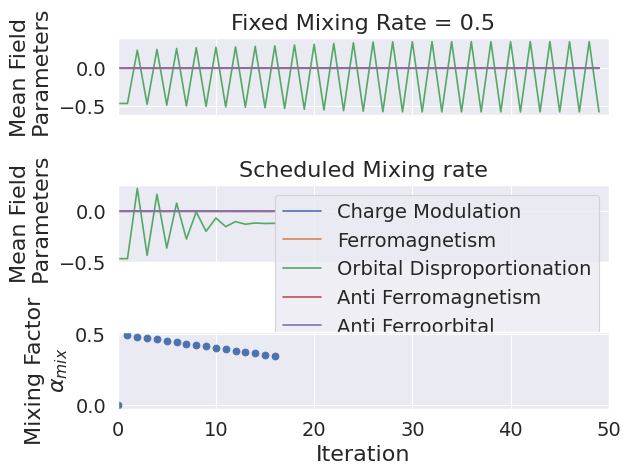
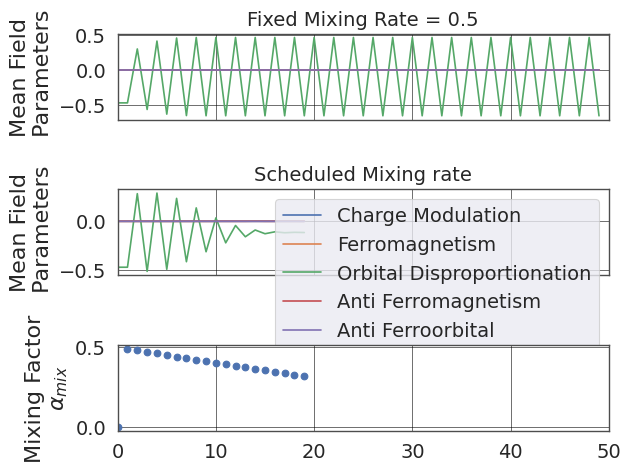
fixed 1d cut, update plots

diff --git a/display/single_point/iteration_seq.py b/display/single_point/iteration_seq.py
@@ -37,31 +37,47 @@ def Iteration_comparison(Solver_fixed, Solver_scheduled):
 
     fig, axs = plt.subplots(3, sharex=True)
     steps = Solver_fixed.sol_seq.shape[0]
-    for i in range(Solver_fixed.sol_seq.shape[1]):
-        axs[0].plot(np.arange(steps), Solver_fixed.sol_seq[:, i], label=Solver_fixed.Hamiltonian.Dict[i])
-    axs[0].set_title('Fixed Mixing Rate = {}'.format(Solver_fixed.beta), fontsize=title_font)
-    axs[0].set_xlim(0, 50)
-    axs[0].tick_params(axis='both', which='major', labelsize=tick_size)
-    axs[0].set_ylabel('Mean Field\n Parameters', fontsize=label_font)
 
+    ax = axs[0]
+    for i in range(Solver_fixed.sol_seq.shape[1]):
+        ax.plot(np.arange(steps), Solver_fixed.sol_seq[:, i], label=Solver_fixed.Hamiltonian.Dict[i])
+    ax.set_title('Fixed Mixing Rate = {}'.format(Solver_fixed.beta), fontsize=title_font)
+    ax.set_xlim(0, 50)
+    ax.set_ylabel('Mean Field\n Parameters', fontsize=label_font)
+    ax.set_facecolor("white")
+    ax.grid(b=True, color='black', linewidth=0.4)
+    ax.tick_params(axis='both', which='both', labelsize=tick_size)
+    for spine in ax.spines.values():
+        spine.set_color('0.3')
+
+    ax = axs[1]
     steps = Solver_scheduled.sol_seq.shape[0]
     for i in range(Solver_fixed.sol_seq.shape[1]):
-        axs[1].plot(np.arange(steps), Solver_scheduled.sol_seq[:, i], label=Solver_scheduled.Hamiltonian.Dict[i])
-    axs[1].set_title('Scheduled Mixing rate', fontsize=title_font)
-    axs[1].set_xlim(0, 50)
-    axs[1].set_ylabel('Mean Field\n Parameters', fontsize=label_font)
-    axs[1].legend(fontsize=leg_font)
-    axs[1].tick_params(axis='both', which='major', labelsize=tick_size)
+        ax.plot(np.arange(steps), Solver_scheduled.sol_seq[:, i], label=Solver_scheduled.Hamiltonian.Dict[i])
+    ax.set_title('Scheduled Mixing rate', fontsize=title_font)
+    ax.set_xlim(0, 50)
+    ax.set_ylabel('Mean Field\n Parameters', fontsize=label_font)
+    ax.legend(fontsize=leg_font)
+    ax.set_facecolor("white")
+    ax.tick_params(axis='both', which='both', labelsize=tick_size)
+    ax.grid(b=True, color='black', linewidth=0.4)
+    for spine in ax.spines.values():
+        spine.set_color('0.3')
 
+    ax = axs[2]
     steps = len(Solver_scheduled.beta_seq)
-    axs[2].scatter(np.arange(steps), Solver_scheduled.beta_seq)
-    axs[2].set_xlim(0, 50)
-    axs[2].set_ylabel('Mixing Factor\n' + r'$\alpha_{mix}$', fontsize=label_font)
-    # axs[2].set_title('Mixing Factor', fontsize=title_font)
+    ax.scatter(np.arange(steps), Solver_scheduled.beta_seq)
+    ax.set_xlim(0, 50)
+    ax.set_ylabel('Mixing Factor\n' + r'$\alpha_{mix}$', fontsize=label_font)
+    ax.set_facecolor("white")
+    ax.tick_params(axis='both', which='both', labelsize=tick_size)
+    ax.grid(b=True, color='black', linewidth=0.4)
+    for spine in ax.spines.values():
+        spine.set_color('0.3')
 
+    plt.tight_layout()
+    fig.savefig('FixedVsScheduled.png', bbox_inches='tight')
     plt.tick_params(axis='both', which='major', labelsize=tick_size)
     plt.xlabel('Iteration', fontsize=title_font)
-    plt.tight_layout()
-    plt.savefig('FixedVsScheduled.png', bbox_inches='tight')
     print('scheduled mixing rate, converged in {} steps'.format(Solver_scheduled.count))
     plt.show()

diff --git a/display/meta/cut.py b/display/meta/cut.py
@@ -230,11 +230,12 @@ def one_d_feature(array, feature, i_label, i_values, results_folder=None,
 
 def difference_plots(features, arrays, i_label, i_values,
                      results_folder=None, show=False, transparent=False):
-# Need to add ticks
-
     x = i_values
     x = x + np.mean(np.diff(x))/2
     x = x[:-1]
+    plt.figure(
+        # facecolor='white'
+        )
 
     for i in range(len(features)):
         label = features[i]
@@ -247,17 +248,19 @@ def difference_plots(features, arrays, i_label, i_values,
         if i == 0:
             plt.plot(x, y, label=label, color='black', linestyle='-')
         elif i == 1:
-            plt.plot(x, y, label=label, color='black', linestyle='--')
+            plt.plot(x, y, label=label, color='blue', linestyle='--')
         else:
             plt.plot(x, y, label=label)
-
     # plt.xlabel(i_label)
     plt.xlabel('N', fontsize=16)
-    plt.ylabel('Error in mean-field parameters (dimensionless)\n'+r'and Energy ($t_1^{0}$)', fontsize=16)
+    plt.ylabel('Error in Mean-Field Parameters (Dimensionless)\n'+r'and Energy ($t_1^{0}$)', fontsize=16)
     # plt.yscale('log')
-    plt.tick_params(axis='both', which='major', labelsize=14)
+    plt.tick_params(axis='both', which='both', labelsize=14)
     plt.tight_layout()
     plt.legend(prop={"size": 14})
+    plt.grid(b=True, color='black', linewidth=0.3)
+    # for spine in ax.spines.values():
+        # spine.set_color('0.3')
 
     if results_folder is not None:
         plt.savefig(results_folder + '/Plots/multi_differences.png',
@@ -290,7 +293,7 @@ def one_d_plots(i_label, i_values, Dict, guesses, final_results_folder=None, sho
     # Ground state phases
     GS_MF = np.loadtxt(os.path.join(final_results_folder, 'GS_Solutions.csv'), delimiter=',')
     difference_plots(
-        ['d|MFP|', 'd|E|'], [GS_MF, sol_energies],
+        ['d|MFP| (Dimensionless)', r'd|E| ($t_1^{0}$)'], [GS_MF, sol_energies],
         i_label, i_values, final_results_folder, show, transparent)
 
     Phase = In.array_interpreter(np.expand_dims(GS_MF, axis=0))

diff --git a/runner_single_pt.py b/runner_single_pt.py
@@ -4,9 +4,9 @@ import scripts.script_single_pt as sp
 
 model_params = dict(
     # U=1.2, J=0.6,  # Metallic
-    # U=3.0, J=1.2,  # CD
+    U=3.0, J=1.2,  # CD
     # U=4.8, J=0.3,  # AFM
-    U=4.8, J=0.6,  # FM
+    # U=4.8, J=0.6,  # FM
     k_res=10
     )
 
@@ -22,17 +22,22 @@ batch_folder = 'Single_points'
 guesses = np.array([
     (0.8, 1.0, 0.0, 0.7, 0.15),
     (1.0, 0.6, 0.0, 0.7, 0.15),
-    # (0.0, 0.2, 0.5, 0.0, 0.2),
-    # (0.2, 0.5, 1.0, 1.0, 0.0),
-    # (0.5, 0.5, 0.0, 0.5, 0.1)
+    (0.0, 0.2, 0.5, 0.0, 0.2),
+    (0.2, 0.5, 1.0, 1.0, 0.0),
+    (0.5, 0.5, 0.0, 0.5, 0.1)
 ])
 
 # sp.point_analysis(model_params, guesses, solver_args, batch_folder)
 
 # Representative settings to show adaptive time steps work
 model_params = dict(
-    k_res=100,
-    J=1.12)
+    # U=1.2, J=0.6,  # Metallic
+    # U=3.0, J=1.2,  # CD
+    # U=4.8, J=0.3,  # AFM
+    # U=4.8, J=0.6,  # FM
+    J=1.2,  # static mixing failure
+    k_res=100
+    )
 
 solver_args_1 = dict(
     method='momentum',

diff --git a/scripts/script_single_pt.py b/scripts/script_single_pt.py
@@ -60,13 +60,11 @@ def iteration_comp(model_params, mf_params, solver_args_1, solver_args_2):
     Model = Hamiltonian(model_params, mf_params)
     Solver = HFA_Solver(Model, **solver_args_1)
     Solver.Iterate(verbose=False)
-
     Solver_1 = Solver
 
     Model = Hamiltonian(model_params, mf_params)
     Solver = HFA_Solver(Model, **solver_args_2)
     Solver.Iterate(verbose=False)
-
     Solver_2 = Solver
 
     IS.Iteration_comparison(Solver_1, Solver_2)
